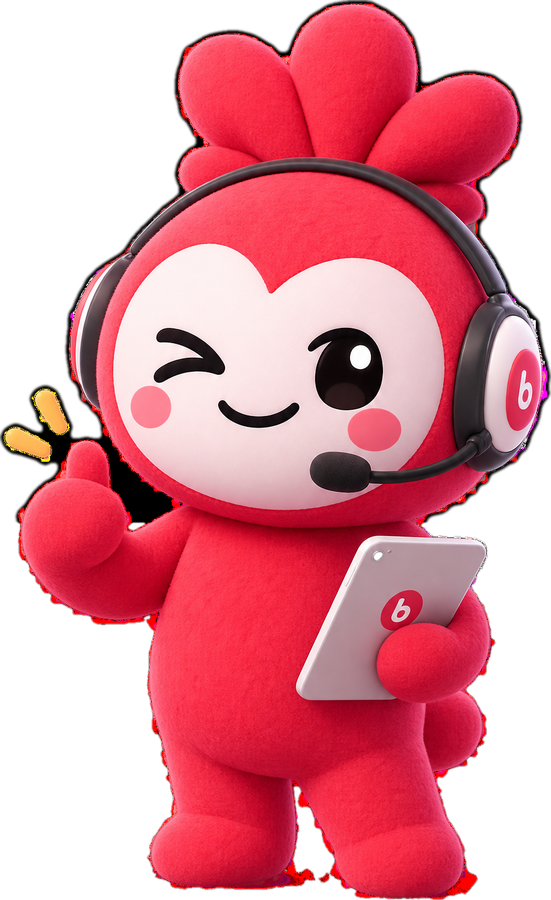
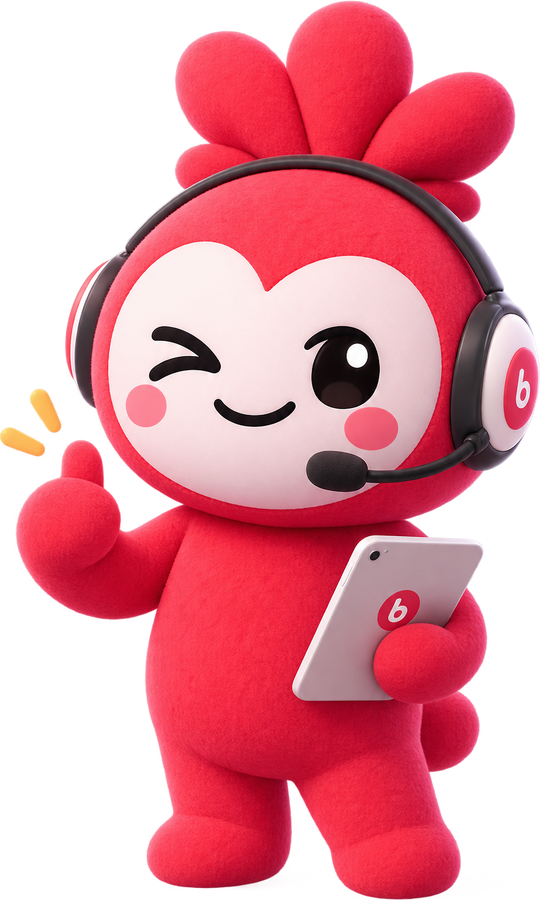
fix(byuppino): l'immagine originale aveva già l'alfa — la scontornatura era di troppo
Il PNG sul Desktop è RGBA con il 52% di pixel trasparenti: il fondo nero che
avevo visto era solo il modo in cui me lo mostrava l'anteprima. Ci ho costruito
sopra una maschera che non serviva, e che per togliere un alone inesistente
aveva eroso i bordi della mascotte. Ora l'asset è l'originale, ritagliato sulla
sua sagoma e ridotto di peso: niente maschere inventate.

Mascotte del 10% più grande — la scala sta sul contenitore e non sull'immagine,
dove c'è già la trasformazione che la fa galleggiare, e cresce dai piedi così
ad allungarsi è lei e non lo stacco.

E la colonna di sinistra si stringe (24% → 19%): fra titolo e mascotte c'era un
corridoio vuoto che non teneva niente, e la conversazione — che è il lavoro —
se ne stava al largo. Quello spazio è passato alla chat.

diff --git a/gestionale/panoramica-byuppino.jsx b/gestionale/panoramica-byuppino.jsx
@@ -35,7 +35,7 @@ const BYU_VERDE_BG = '#E8F6EE';
 // arrivava e al suo posto compariva, con tutta naturalezza, la mascotte di
 // prima. Un rimedio che nasconde il guasto è peggio del guasto: se il file non
 // c'è, si deve vedere che non c'è.
-const BYU_MASCOTTE = 'byuppino-assistente.png?v=1';
+const BYU_MASCOTTE = 'byuppino-assistente.png?v=2';
 
 // Le animazioni vivono in un foglio e non negli stili in linea: servono
 // keyframes e uno pseudo-elemento (l'anello che gira), e nessuno dei due si
@@ -499,10 +499,13 @@ function WidgetByuppino() {
 
       {/* ── Colonna sinistra: chi ti sta parlando. Niente fondo suo: sta
              direttamente sul gradiente. ── */}
+      {/* Stretta quanto basta a titolo e mascotte: fra le due c'era un corridoio
+          vuoto che non teneva niente, e la conversazione — che è il lavoro — se
+          ne stava al largo. Quello spazio è passato alla chat. */}
       <div style={{
-        width: '24%', minWidth: 190, flexShrink: 0,
+        width: '19%', minWidth: 172, flexShrink: 0,
         position: 'relative', zIndex: 1, display: 'flex', flexDirection: 'column',
-        padding: '4px 4px 0 8px',
+        padding: '4px 0 0 8px',
       }}>
         <div style={{fontSize: 21, fontWeight: 800, letterSpacing: '-0.02em', color: PN.TEXT}}>
           Byuppino <span style={{color: BYU_BRAND}}>AI</span>
@@ -522,8 +525,15 @@ function WidgetByuppino() {
         </div>
 
         {/* `height:100%` + `contain` e non `maxHeight`: dentro una colonna alta
-            quanto la scheda, un'immagine con la sola altezza massima sborda. */}
-        <div style={{flex: 1, minHeight: 0, padding: '6px 0 0'}}>
+            quanto la scheda, un'immagine con la sola altezza massima sborda.
+            Il 10% in più sta sul contenitore e non sull'immagine: sull'immagine
+            c'è già la trasformazione che la fa galleggiare, e una seconda la
+            cancellerebbe. Cresce dai piedi — `bottom center` — così i piedi
+            restano dove sono e ad allungarsi è la mascotte, non lo stacco. */}
+        <div style={{
+          flex: 1, minHeight: 0, padding: '6px 0 0',
+          transform: 'scale(1.1)', transformOrigin: 'bottom center',
+        }}>
           <img src={BYU_MASCOTTE} alt="Byuppino" className="byu-galleggia" style={{
             display: 'block', height: '100%', width: '100%',
             objectFit: 'contain', objectPosition: 'center bottom',
